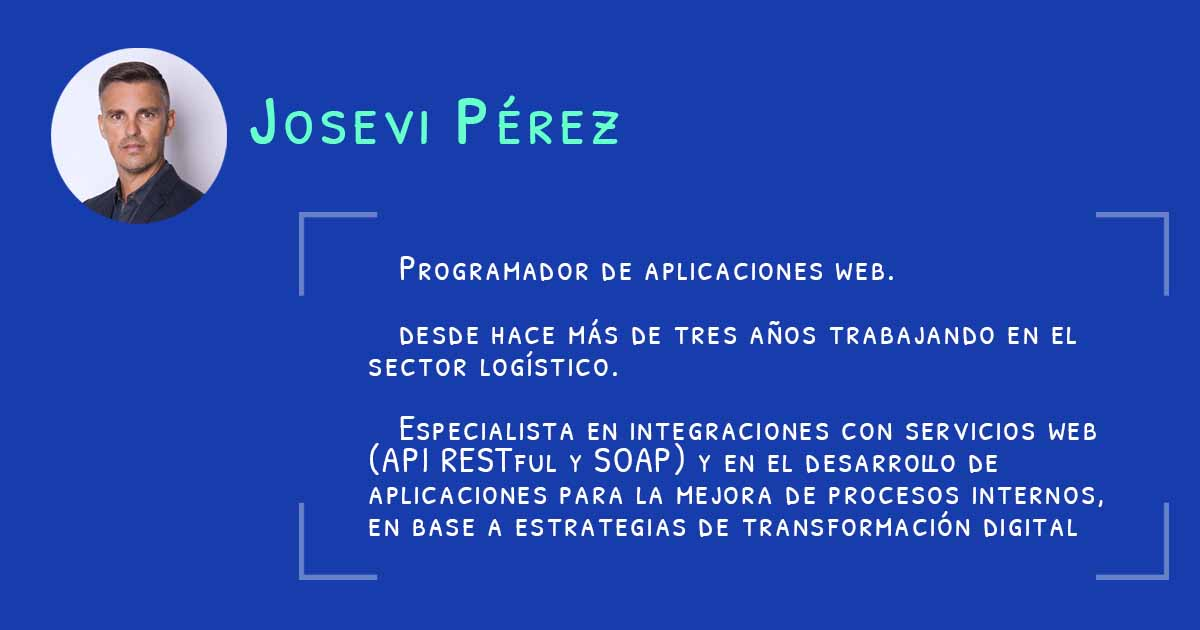
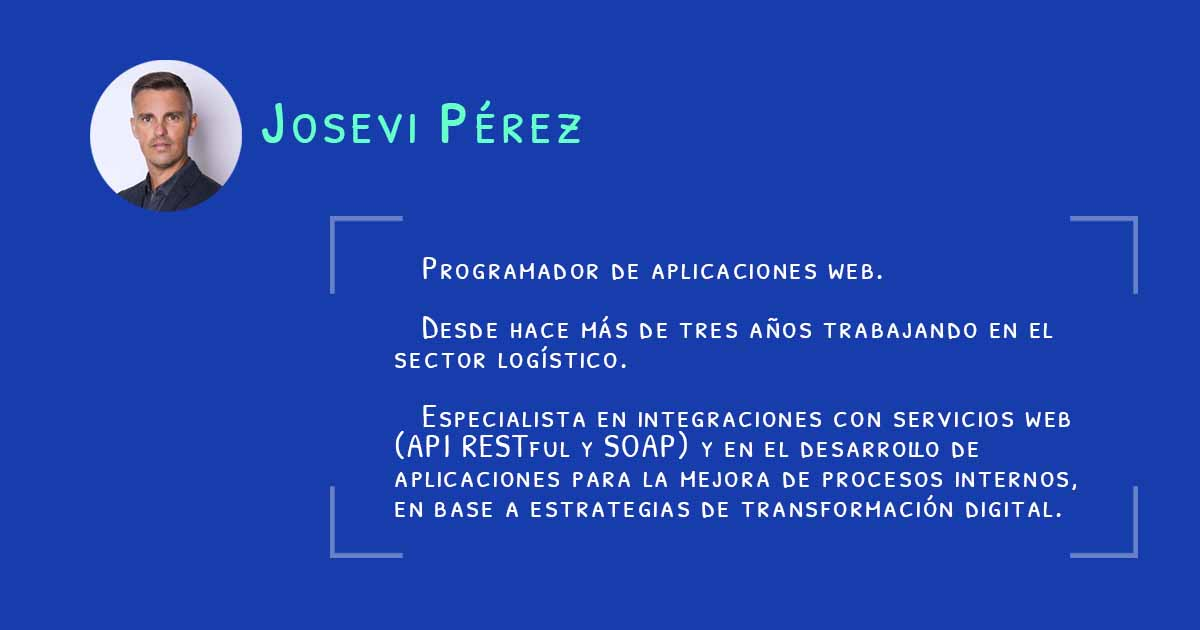
Modificamos imagen Open Graph

diff --git a/index.html b/index.html
@@ -5,13 +5,11 @@
   <meta charset="UTF-8" />
   <meta name="viewport" content="width=device-width, initial-scale=1.0" />
   <title>Currículo Vitae Personal</title>
-
   <meta property="og:type" content="website">
   <meta property="og:url" content="https://jperegir.github.io">
   <meta property="og:title" content="Josevi Pérez - Programador web">
-  <meta property="og:description" content="Programador de aplicaciones web, desde hace más de tres años trabajando en el sector logístico. Especialista en integraciones con servicios web (API RESTful y SOAP) y en el desarrollo de aplicaciones para la mejora de procesos internos, en base a una estrategia de transformación digital.">
+  <meta property="og:description" content="Programador de aplicaciones web. Desde hace más de tres años trabajando en el sector logístico. Especialista en integraciones con servicios web (API RESTful y SOAP) y en el desarrollo de aplicaciones para la mejora de procesos internos, en base a estrategias de transformación digital.">
   <meta property="og:image" content="https://jperegir.github.io/resources/images/linkedin_target.jpg">
-
   <link rel="icon" type="image/x-icon" href="/resources/icons/language_black_24dp.svg" />
   <link rel="preconnect" href="https://fonts.googleapis.com" />
   <link rel="preconnect" href="https://fonts.gstatic.com" crossorigin />
